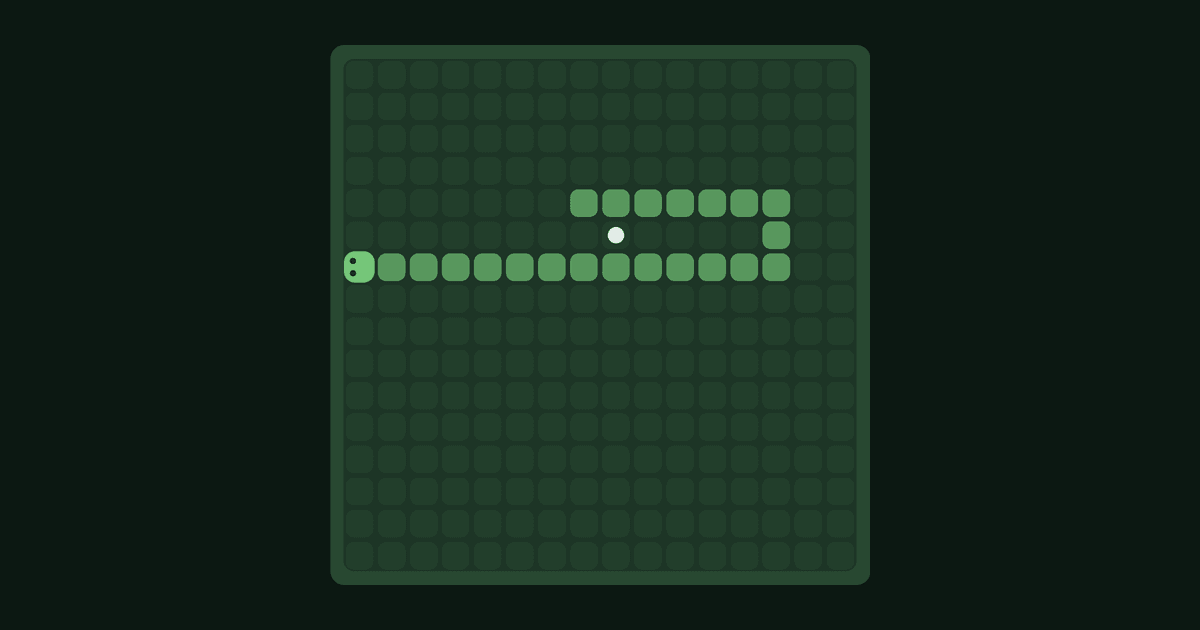
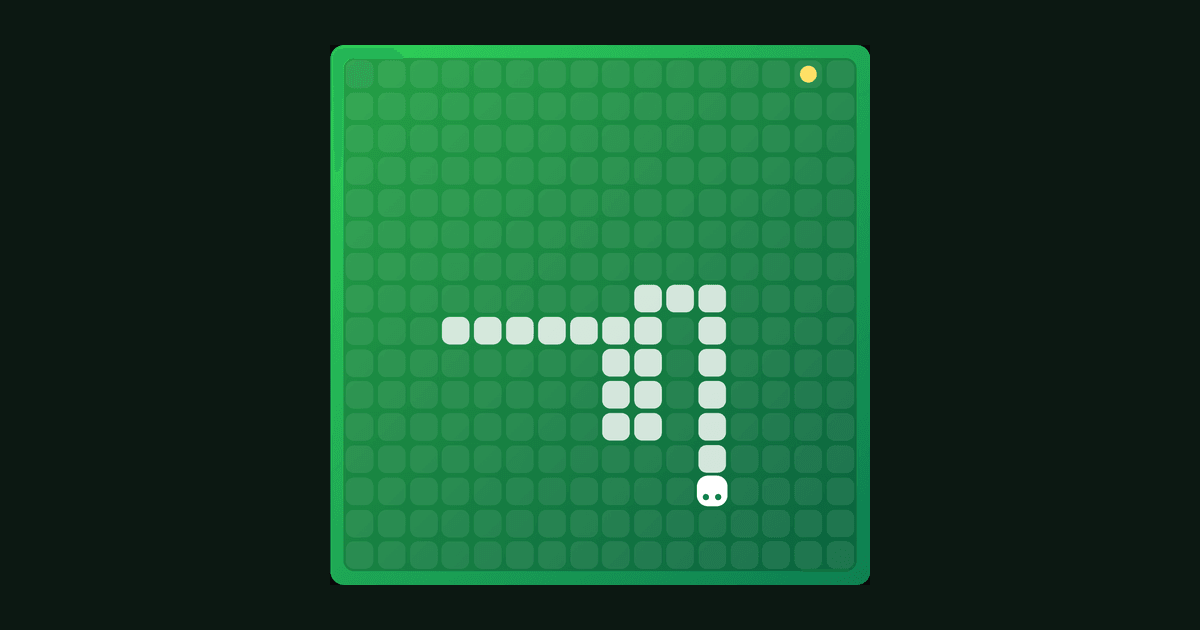
Lab - mini games in new colours, with a switch back to the old green

diff --git a/src/games/2048/2048.css b/src/games/2048/2048.css
@@ -1,4 +1,5 @@
-/* 2048 on the "Jack's 2048" post (game.js). Tiles are shades of the Games topic colour, from faint to full.
+/* 2048 on the "Jack's 2048" post (game.js). The board is a violet card with see-through white and soft tiles; the
+   switch on the page's top card can bring back the old look, tiles in shades of the Games green (the end of this file).
    Every rule starts with .g2048, so the post text's own styles (.prose p and so on) can't win over these. */
 
 /* The game on the left and its leaderboard on the right, out to the page's edge like the top card above; on
@@ -18,7 +19,7 @@
 .g2048 .g2048-score strong { font-size: var(--text-md); font-weight: 800; font-variant-numeric: tabular-nums; }
 /* Wide enough for the running time, so the boxes beside it never shift as its digits change. */
 .g2048 .g2048-time { min-width: 7.25rem; }
-.g2048 .g2048-gain { position: absolute; right: 0; bottom: 50%; left: 0; color: var(--lane-games); font-size: var(--text-sm); font-weight: 800; pointer-events: none; animation: g2048-gain 700ms ease-out forwards; }
+.g2048 .g2048-gain { position: absolute; right: 0; bottom: 50%; left: 0; color: var(--game-accent); font-size: var(--text-sm); font-weight: 800; pointer-events: none; animation: g2048-gain 700ms ease-out forwards; }
 .g2048 .g2048-buttons { display: flex; gap: var(--space-2); }
 .g2048 .button { color: var(--ink); cursor: pointer; -webkit-tap-highlight-color: transparent; }
 /* Undo with no move to take back. */
@@ -44,15 +45,19 @@
   .g2048 .g2048-label-text { position: absolute; width: 1px; height: 1px; overflow: hidden; clip: rect(0 0 0 0); white-space: nowrap; }
 }
 
-.g2048 .g2048-board { position: relative; padding: var(--gap); border-radius: var(--radius-lg); background: color-mix(in srgb, var(--lane-games) 20%, var(--surface)); touch-action: none; }
+/* The game's colours. The accent is for what sits on the page (the score's rise, the leaderboard's latest row). */
+.g2048 { --board: linear-gradient(135deg, var(--now-from), var(--now-to)); --empty: color-mix(in srgb, var(--on-colour) 12%, transparent); --game-accent: var(--now-to); }
+:root[data-theme='dark'] .g2048 { --game-accent: var(--accent-about); }
+
+.g2048 .g2048-board { position: relative; padding: var(--gap); border-radius: var(--radius-lg); background: var(--board); touch-action: none; }
 .g2048 .g2048-board:focus-visible { outline: 2px solid var(--focus); outline-offset: 3px; }
 .g2048 .g2048-cells { display: grid; grid-template-columns: repeat(4, minmax(0, 1fr)); gap: var(--gap); }
-.g2048 .g2048-cells > div { aspect-ratio: 1; border-radius: var(--radius-md); background: color-mix(in srgb, var(--lane-games) 9%, var(--surface)); }
+.g2048 .g2048-cells > div { aspect-ratio: 1; border-radius: var(--radius-md); background: var(--empty); }
 .g2048 .g2048-tiles { position: absolute; inset: var(--gap); }
 
 /* A tile is placed by --x and --y; changing them slides it (transform only, so it stays on the GPU). */
-.g2048 .g2048-tile { --fg: var(--ink); position: absolute; top: 0; left: 0; width: calc((100% - 3 * var(--gap)) / 4); aspect-ratio: 1; transform: translate(calc(var(--x) * (100% + var(--gap))), calc(var(--y) * (100% + var(--gap)))); transition: transform var(--slide) ease-in-out; will-change: transform; }
-.g2048 .g2048-tile span { display: grid; place-items: center; width: 100%; height: 100%; border-radius: var(--radius-md); background: color-mix(in srgb, var(--lane-games) var(--p), var(--surface)); color: var(--fg); font-size: 10.5cqw; font-weight: 800; letter-spacing: -0.03em; line-height: 1; }
+.g2048 .g2048-tile { --fg: var(--game-words); position: absolute; top: 0; left: 0; width: calc((100% - 3 * var(--gap)) / 4); aspect-ratio: 1; transform: translate(calc(var(--x) * (100% + var(--gap))), calc(var(--y) * (100% + var(--gap)))); transition: transform var(--slide) ease-in-out; will-change: transform; }
+.g2048 .g2048-tile span { display: grid; place-items: center; width: 100%; height: 100%; border-radius: var(--radius-md); background: var(--bg); color: var(--fg); font-size: 10.5cqw; font-weight: 800; letter-spacing: -0.03em; line-height: 1; }
 .g2048 .d3 span { font-size: 8.5cqw; }
 .g2048 .d4 span { font-size: 6.8cqw; }
 .g2048 .d5 span { font-size: 5.4cqw; }
@@ -61,6 +66,26 @@
 .g2048 .is-new span { animation: g2048-appear 180ms ease-out both; }
 .g2048 .is-merged span { animation: g2048-pop 180ms ease-out both; }
 
+/* Each value's tile: see-through white for 2 and 4, then soft colours warming up to pink at 2048, and deep violet
+   beyond. White numbers on the see-through, the pink and the deep violet, deep violet ones on the rest. Measured:
+   every number at least 3.2:1, all of them large text. */
+.g2048 .v2 { --bg: color-mix(in srgb, var(--on-colour) 14%, transparent); --fg: var(--on-colour); }
+.g2048 .v4 { --bg: color-mix(in srgb, var(--on-colour) 24%, transparent); --fg: var(--on-colour); }
+.g2048 .v8 { --bg: var(--now-soft); }
+.g2048 .v16 { --bg: var(--on-colour); }
+.g2048 .v32 { --bg: var(--now-third); }
+.g2048 .v64 { --bg: var(--game-mint); }
+.g2048 .v128 { --bg: var(--now-first); }
+.g2048 .v256 { --bg: var(--game-amber); }
+.g2048 .v512 { --bg: var(--accent-collection); }
+.g2048 .v1024 { --bg: var(--game-coral); }
+.g2048 .v2048 { --bg: var(--accent-writing); --fg: var(--on-colour); }
+.g2048 .vbig { --bg: var(--game-words); --fg: var(--on-colour); }
+
+/* The old look, which the switch on the page's top card brings back (data-game-look on the page): the board and the
+   tiles in shades of the Games green, from faint to full. */
+:root[data-game-look='old'] .g2048 { --board: color-mix(in srgb, var(--lane-games) 20%, var(--surface)); --empty: color-mix(in srgb, var(--lane-games) 9%, var(--surface)); --game-accent: var(--lane-games); }
+:root[data-game-look='old'] .g2048 .g2048-tile { --bg: color-mix(in srgb, var(--lane-games) var(--p), var(--surface)); --fg: var(--ink); }
 .g2048 .v2 { --p: 14%; }
 .g2048 .v4 { --p: 24%; }
 .g2048 .v8 { --p: 36%; }
@@ -72,11 +97,11 @@
 .g2048 .v512 { --p: 88%; }
 .g2048 .v1024 { --p: 94%; }
 .g2048 .v2048 { --p: 100%; }
-.g2048 .vbig span { background: var(--ink); color: var(--surface); }
+:root[data-game-look='old'] .g2048 .vbig { --bg: var(--ink); --fg: var(--surface); }
 /* Numbers switch to the page colour once the green behind them is strong: from 512 in the light theme,
    and from 64 in the dark theme, whose green is light. Measured: every value is at least 3.9:1 in both themes. */
-.g2048 :is(.v512, .v1024, .v2048) { --fg: var(--surface); }
-:root[data-theme='dark'] .g2048 :is(.v64, .v128, .v256) { --fg: var(--surface); }
+:root[data-game-look='old'] .g2048 :is(.v512, .v1024, .v2048) { --fg: var(--surface); }
+:root[data-game-look='old'][data-theme='dark'] .g2048 :is(.v64, .v128, .v256) { --fg: var(--surface); }
 
 .g2048 .g2048-message { position: absolute; inset: 0; z-index: 3; display: grid; place-content: center; justify-items: center; gap: var(--space-3); border-radius: var(--radius-lg); background: color-mix(in srgb, var(--surface) 84%, transparent); text-align: center; animation: g2048-fade 300ms ease both; }
 .g2048 .g2048-message[hidden] { display: none; }

diff --git a/src/games/snake/snake.css b/src/games/snake/snake.css
@@ -1,5 +1,7 @@
-/* Snake on the "Jack's Snake" post (game.js): the snake in the Games topic colour, the food in the page's ink.
-   Every rule starts with .snk, so the post text's own styles (.prose p and so on) can't win over these. */
+/* Snake on the "Jack's Snake" post (game.js). The board is a green card with a white snake and yellow food; the
+   switch on the page's top card can bring back the old look, the snake in the Games green and the food in the page's
+   ink (the end of this file). Every rule starts with .snk, so the post text's own styles (.prose p and so on) can't
+   win over these. */
 
 /* The game on the left and its leaderboard on the right, out to the page's edge like the top card above; on
    narrower screens, the leaderboard goes under it. */
@@ -18,35 +20,39 @@
 .snk .snk-score strong { font-size: var(--text-md); font-weight: 800; font-variant-numeric: tabular-nums; }
 .snk .button { color: var(--ink); cursor: pointer; }
 
-.snk .snk-board { position: relative; padding: 2.5%; border-radius: var(--radius-lg); background: color-mix(in srgb, var(--lane-games) 20%, var(--surface)); touch-action: none; }
+/* The game's colours: the board, the field inside it and its faint cells, the snake's body, head and eyes, the food,
+   and the words before play starts. */
+.snk { --board: linear-gradient(135deg, var(--kind-game-from), var(--kind-game-to)); --field: var(--on-colour-chip); --grid: color-mix(in srgb, var(--on-colour) 8%, transparent); --body: color-mix(in srgb, var(--on-colour) 80%, transparent); --head: var(--on-colour); --eye: var(--kind-game-to); --food: var(--now-first); --hint: var(--on-colour); }
+
+.snk .snk-board { position: relative; padding: 2.5%; border-radius: var(--radius-lg); background: var(--board); touch-action: none; }
 .snk .snk-board:focus-visible { outline: 2px solid var(--focus); outline-offset: 3px; }
-.snk .snk-field { position: relative; aspect-ratio: 1; overflow: hidden; border-radius: var(--radius-md); background: color-mix(in srgb, var(--lane-games) 8%, var(--surface)); }
+.snk .snk-field { position: relative; aspect-ratio: 1; overflow: hidden; border-radius: var(--radius-md); background: var(--field); }
 
 /* The grid the snake moves on: faint cells the size and shape of its parts. */
 .snk .snk-grid { position: absolute; inset: 0; display: grid; grid-template-columns: repeat(var(--size), 1fr); grid-template-rows: repeat(var(--size), 1fr); }
-.snk .snk-grid i { margin: 7%; border-radius: 30%; background: color-mix(in srgb, var(--lane-games) 14%, var(--surface)); }
+.snk .snk-grid i { margin: 7%; border-radius: 30%; background: var(--grid); }
 
 /* A part of the snake (or the food) is placed by --x and --y, in cells. No transition: it jumps there, old-school. */
 .snk .snk-part, .snk .snk-food { position: absolute; top: 0; left: 0; width: calc(100% / var(--size)); aspect-ratio: 1; transform: translate(calc(var(--x) * 100%), calc(var(--y) * 100%)); }
-.snk .snk-part::before { content: ''; position: absolute; inset: 7%; border-radius: 30%; background: color-mix(in srgb, var(--lane-games) 70%, var(--surface)); }
+.snk .snk-part::before { content: ''; position: absolute; inset: 7%; border-radius: 30%; background: var(--body); }
 .snk .snk-part.is-head { z-index: 1; }
-.snk .snk-part.is-head::before { inset: 2%; border-radius: 36%; background: var(--lane-games); }
+.snk .snk-part.is-head::before { inset: 2%; border-radius: 36%; background: var(--head); }
 /* Eyes on the side the head is facing (drawn facing right, then turned). */
 .snk .snk-eyes { position: absolute; inset: 0; }
 .snk [data-dir='down'] .snk-eyes { transform: rotate(90deg); }
 .snk [data-dir='left'] .snk-eyes { transform: rotate(180deg); }
 .snk [data-dir='up'] .snk-eyes { transform: rotate(-90deg); }
-.snk .snk-eyes i { position: absolute; right: 22%; width: 18%; aspect-ratio: 1; border-radius: 50%; background: var(--surface); }
+.snk .snk-eyes i { position: absolute; right: 22%; width: 18%; aspect-ratio: 1; border-radius: 50%; background: var(--eye); }
 .snk .snk-eyes i:first-child { top: 22%; }
 .snk .snk-eyes i:last-child { bottom: 22%; }
 
-.snk .snk-food::before { content: ''; position: absolute; inset: 24%; border-radius: 50%; background: var(--ink); animation: snk-pulse 900ms ease-in-out infinite alternate; }
+.snk .snk-food::before { content: ''; position: absolute; inset: 24%; border-radius: 50%; background: var(--food); animation: snk-pulse 900ms ease-in-out infinite alternate; }
 .snk .snk-food.is-new::before { animation: snk-appear 220ms ease-out, snk-pulse 900ms ease-in-out 220ms infinite alternate; }
 .snk .snk-food[hidden] { display: none; }
 .snk .is-crashed .is-head { animation: snk-shake 380ms ease-in-out; }
 
 /* Near the top of the board, as a big board's lower part can start below the screen's edge until play begins. */
-.snk .snk-hint { position: absolute; top: 22%; right: 0; left: 0; margin: 0; color: var(--ink); font-weight: 700; text-align: center; pointer-events: none; }
+.snk .snk-hint { position: absolute; top: 22%; right: 0; left: 0; margin: 0; color: var(--hint); font-weight: 700; text-align: center; pointer-events: none; }
 .snk .snk-hint[hidden] { display: none; }
 .snk .snk-message { position: absolute; inset: 0; z-index: 3; display: grid; place-content: center; justify-items: center; gap: var(--space-3); padding: var(--space-4); border-radius: var(--radius-lg); background: color-mix(in srgb, var(--surface) 84%, transparent); text-align: center; animation: snk-fade 300ms ease both; }
 .snk .snk-message[hidden] { display: none; }
@@ -59,6 +65,10 @@
 .snk .snk-mode input { width: 1.125rem; height: 1.125rem; margin: 0; accent-color: var(--lane-games); cursor: inherit; }
 .snk .snk-mode:has(input:disabled) { color: var(--muted); cursor: not-allowed; }
 .snk .snk-help { margin: var(--space-3) 0 0; color: var(--muted); font-size: var(--text-sm); text-align: center; }
+
+/* The old look, which the switch on the page's top card brings back (data-game-look on the page): the board in a
+   faint Games green, the snake in the full green, the food in the page's ink. */
+:root[data-game-look='old'] .snk { --board: color-mix(in srgb, var(--lane-games) 20%, var(--surface)); --field: color-mix(in srgb, var(--lane-games) 8%, var(--surface)); --grid: color-mix(in srgb, var(--lane-games) 14%, var(--surface)); --body: color-mix(in srgb, var(--lane-games) 70%, var(--surface)); --head: var(--lane-games); --eye: var(--surface); --food: var(--ink); --hint: var(--ink); }
 
 @keyframes snk-pulse { from { transform: scale(0.86); } to { transform: scale(1.04); } }
 @keyframes snk-appear { from { transform: scale(0); } }

diff --git a/src/games/catch-the-cat/catch-the-cat.css b/src/games/catch-the-cat/catch-the-cat.css
@@ -1,5 +1,7 @@
-/* Catch the Cat on its post (game.js): dots in shades of the Games topic colour, like 2048.
-   Every rule starts with .ctc, so the post text's own styles (.prose p and so on) can't win over these. */
+/* Catch the Cat on its post (game.js). The board is an orange card with see-through white dots, blocked ones deep
+   orange, and a dark cat; the switch on the page's top card can bring back the old look, dots in shades of the Games
+   green (the end of this file). Every rule starts with .ctc, so the post text's own styles (.prose p and so on) can't
+   win over these. */
 
 /* As big as the other games (--game-width), and never taller than the screen with its buttons: the board is about
    0.85 times as tall as it is wide. */
@@ -11,30 +13,33 @@
 .ctc .ctc-score strong { font-size: var(--text-md); font-weight: 800; font-variant-numeric: tabular-nums; }
 .ctc .button { color: var(--ink); cursor: pointer; }
 
-.ctc .ctc-board { position: relative; padding: 3%; border-radius: var(--radius-lg); background: color-mix(in srgb, var(--lane-games) 16%, var(--surface)); }
+/* The game's colours: the board, a free dot (and under the mouse), a blocked one, the cat and its eyes, and the
+   keyboard's ring, dark like the cat as the page's blue would vanish on the orange. Free and blocked dots are at
+   least 3:1 apart. */
+.ctc { --board: linear-gradient(135deg, var(--collection-from), var(--collection-to)); --dot: color-mix(in srgb, var(--on-colour) 26%, transparent); --dot-hover: color-mix(in srgb, var(--on-colour) 50%, transparent); --blocked: var(--collection-top-to); --cat: var(--game-cat); --cat-eye: var(--on-colour); --ring: var(--game-cat); }
+
+.ctc .ctc-board { position: relative; padding: 3%; border-radius: var(--radius-lg); background: var(--board); }
 /* No outline on a click: the browser's own style for SVG draws a thick ring on any focus, mouse included. */
 /* No tap highlight: phones would flash a blue patch over each dot tapped, and the dot turning dark already shows it. */
 .ctc svg { display: block; width: 100%; height: auto; overflow: visible; touch-action: manipulation; outline: none; -webkit-tap-highlight-color: transparent; }
-.ctc svg:focus-visible { outline: 2px solid var(--focus); outline-offset: 8px; border-radius: var(--radius-xs); }
-/* Free dots are pale, blocked ones take the full Games colour (at least 3:1 apart in both themes). */
-.ctc .ctc-dot { fill: color-mix(in srgb, var(--lane-games) 36%, var(--surface)); cursor: pointer; transform-box: fill-box; transform-origin: center; transition: fill 150ms ease; }
-.ctc .ctc-dot.is-blocked { fill: var(--lane-games); cursor: default; }
+.ctc svg:focus-visible { outline: 2px solid var(--ring); outline-offset: 8px; border-radius: var(--radius-xs); }
+.ctc .ctc-dot { fill: var(--dot); cursor: pointer; transform-box: fill-box; transform-origin: center; transition: fill 150ms ease; }
+.ctc .ctc-dot.is-blocked { fill: var(--blocked); cursor: default; }
 .ctc .ctc-dot.is-new { animation: ctc-pop 220ms ease-out; }
 /* Mouse only: a tapped dot on a touch screen would otherwise stay highlighted. */
 @media (hover: hover) {
-  .ctc .ctc-dot:not(.is-blocked):hover { fill: color-mix(in srgb, var(--lane-games) 62%, var(--surface)); }
+  .ctc .ctc-dot:not(.is-blocked):hover { fill: var(--dot-hover); }
 }
-.ctc .ctc-cursor { fill: none; stroke: var(--focus); stroke-width: 0.07; opacity: 0; pointer-events: none; }
+.ctc .ctc-cursor { fill: none; stroke: var(--ring); stroke-width: 0.07; opacity: 0; pointer-events: none; }
 .ctc svg:focus-visible .ctc-cursor { opacity: 1; }
 
 /* The cat: one pose shows at a time, sitting unless an animation below swaps it (every 70ms in a stride).
    steps(1, end) holds each keyframe until the next, so the poses swap like sprite frames. */
 .ctc .ctc-cat { pointer-events: none; transition: transform var(--move) ease-in-out, opacity var(--move) ease; }
 .ctc .ctc-cat.is-gone { opacity: 0; }
-.ctc .ctc-ink { fill: var(--ink); }
-.ctc .ctc-line { fill: none; stroke: var(--ink); stroke-width: 0.075; stroke-linecap: round; }
-/* The page colour: the opposite of the cat's in both themes, so the eyes always show. */
-.ctc .ctc-eye { fill: var(--paper); }
+.ctc .ctc-ink { fill: var(--cat); }
+.ctc .ctc-line { fill: none; stroke: var(--cat); stroke-width: 0.075; stroke-linecap: round; }
+.ctc .ctc-eye { fill: var(--cat-eye); }
 .ctc .ctc-pose { visibility: hidden; }
 .ctc .ctc-sit { visibility: visible; }
 /* Sitting still, the tail sways and the cat blinks now and then. */
@@ -67,6 +72,11 @@
 .ctc .ctc-message p { margin: 0; font-size: var(--text-xl); font-weight: 800; letter-spacing: -0.02em; }
 .ctc .ctc-actions { display: flex; flex-wrap: wrap; justify-content: center; gap: var(--space-2); }
 .ctc .ctc-help { margin: var(--space-3) 0 0; color: var(--muted); font-size: var(--text-sm); text-align: center; }
+
+/* The old look, which the switch on the page's top card brings back (data-game-look on the page): the board in a
+   faint Games green, free dots pale and blocked ones in the full green (at least 3:1 apart in both themes), the cat in
+   the page's ink with eyes in the page colour, the opposite of the cat's, so they always show. */
+:root[data-game-look='old'] .ctc { --board: color-mix(in srgb, var(--lane-games) 16%, var(--surface)); --dot: color-mix(in srgb, var(--lane-games) 36%, var(--surface)); --dot-hover: color-mix(in srgb, var(--lane-games) 62%, var(--surface)); --blocked: var(--lane-games); --cat: var(--ink); --cat-eye: var(--paper); --ring: var(--focus); }
 
 @keyframes ctc-pop { 0% { transform: scale(0.6); } 60% { transform: scale(1.12); } 100% { transform: scale(1); } }
 @keyframes ctc-fade { from { opacity: 0; } }

diff --git a/src/games/blocks/blocks.css b/src/games/blocks/blocks.css
@@ -1,5 +1,6 @@
-/* Blocks on the "Jack's Blocks" post (game.js): the pieces in shades of the Games topic colour, one shade each.
-   Every rule starts with .blk, so the post text's own styles (.prose p and so on) can't win over these. */
+/* Blocks on the "Jack's Blocks" post (game.js). The well is a blue card with each piece in a soft colour of its own;
+   the switch on the page's top card can bring back the old look, the pieces in shades of the Games green (the end of
+   this file). Every rule starts with .blk, so the post text's own styles (.prose p and so on) can't win over these. */
 
 /* A cell's size: as big as fits the screen, in height (the whole well of 20 rows, once the page glides to it at the
    start) and in width (10 columns, with the scores beside them), between a small and a comfortable size. The columns
@@ -13,21 +14,25 @@
 .blk .blk-main { display: flex; align-items: flex-start; gap: var(--space-3); }
 .blk .button { color: var(--ink); cursor: pointer; }
 
-.blk .blk-board { position: relative; flex: none; padding: 6px; border-radius: var(--radius-lg); background: color-mix(in srgb, var(--lane-games) 20%, var(--surface)); touch-action: none; }
+/* The game's colours: the well, an empty cell, the flash of a cleared row, and the accent for what sits on the page
+   (the leaderboard's latest row). */
+.blk { --board: linear-gradient(160deg, var(--travel-from), var(--travel-to)); --empty: color-mix(in srgb, var(--on-colour) 10%, transparent); --flash: var(--on-colour); --game-accent: var(--accent-travel); }
+
+.blk .blk-board { position: relative; flex: none; padding: 6px; border-radius: var(--radius-lg); background: var(--board); touch-action: none; }
 .blk .blk-board:focus-visible { outline: 2px solid var(--focus); outline-offset: 3px; }
 .blk .blk-grid { display: grid; grid-template-columns: repeat(10, var(--cell)); grid-auto-rows: var(--cell); gap: 2px; }
-.blk .blk-cell { border-radius: var(--radius-xs); background: color-mix(in srgb, var(--lane-games) 7%, var(--surface)); }
-/* One shade of the Games colour for each piece, from full to light. */
-.blk .p-I { --p: 100%; }
-.blk .p-O { --p: 86%; }
-.blk .p-T { --p: 72%; }
-.blk .p-S { --p: 60%; }
-.blk .p-Z { --p: 50%; }
-.blk .p-J { --p: 40%; }
-.blk .p-L { --p: 32%; }
-.blk .blk-cell:is(.p-I, .p-O, .p-T, .p-S, .p-Z, .p-J, .p-L) { background: color-mix(in srgb, var(--lane-games) var(--p), var(--surface)); }
-/* Where the piece will land: an outline in its shade. */
-.blk .blk-cell.blk-cell.is-ghost { background: transparent; box-shadow: inset 0 0 0 2px color-mix(in srgb, var(--lane-games) var(--p), var(--surface)); opacity: 0.7; }
+.blk .blk-cell { border-radius: var(--radius-xs); background: var(--empty); }
+/* A soft colour of its own for each piece. */
+.blk .p-I { --piece: var(--on-colour); }
+.blk .p-O { --piece: var(--now-first); }
+.blk .p-T { --piece: var(--now-soft); }
+.blk .p-S { --piece: var(--now-third); }
+.blk .p-Z { --piece: var(--game-pink); }
+.blk .p-J { --piece: var(--game-sky); }
+.blk .p-L { --piece: var(--game-peach); }
+.blk .blk-cell:is(.p-I, .p-O, .p-T, .p-S, .p-Z, .p-J, .p-L) { background: var(--piece); }
+/* Where the piece will land: an outline in its colour. */
+.blk .blk-cell.blk-cell.is-ghost { background: transparent; box-shadow: inset 0 0 0 2px var(--piece); opacity: 0.7; }
 .blk .is-clearing { animation: blk-clear 180ms ease-out forwards; }
 
 .blk .blk-side { display: grid; gap: var(--space-2); width: 6.5rem; }
@@ -43,6 +48,9 @@
 /* An empty Hold box keeps the height of a piece; once used, it fades until the piece sets. */
 .blk .blk-mini:empty { height: calc(2 * var(--mini) + 2px); }
 .blk .blk-next.is-used .blk-mini { opacity: 0.35; }
+/* The next and held pieces sit in a small tray of the well's blue, as their soft colours would fade on the page, each
+   in the middle of a tray the size of the longest piece, so the box never changes size. */
+:root:not([data-game-look='old']) .blk .blk-mini { width: calc(4 * var(--mini) + 6px + 8px); height: calc(2 * var(--mini) + 2px + 8px); padding: 4px; justify-content: center; align-content: center; border-radius: var(--radius-xs); background: var(--board); }
 .blk .blk-side .button { justify-content: center; margin-top: var(--space-1); padding-inline: var(--space-2); }
 
 /* The buttons under the well, only where there's a touch screen and no mouse. */
@@ -60,5 +68,17 @@
 .blk .blk-actions { display: flex; flex-wrap: wrap; justify-content: center; gap: var(--space-2); }
 .blk .blk-help { max-width: 30rem; margin: var(--space-3) 0 0; color: var(--muted); font-size: var(--text-sm); }
 
-@keyframes blk-clear { 40% { background: var(--ink); } to { background: var(--ink); opacity: 0; transform: scaleY(0.2); } }
+/* The old look, which the switch on the page's top card brings back (data-game-look on the page): the well and the
+   pieces in shades of the Games green, one shade each, from full to light. */
+:root[data-game-look='old'] .blk { --board: color-mix(in srgb, var(--lane-games) 20%, var(--surface)); --empty: color-mix(in srgb, var(--lane-games) 7%, var(--surface)); --flash: var(--ink); --game-accent: var(--lane-games); }
+:root[data-game-look='old'] .blk :is(.p-I, .p-O, .p-T, .p-S, .p-Z, .p-J, .p-L) { --piece: color-mix(in srgb, var(--lane-games) var(--p), var(--surface)); }
+.blk .p-I { --p: 100%; }
+.blk .p-O { --p: 86%; }
+.blk .p-T { --p: 72%; }
+.blk .p-S { --p: 60%; }
+.blk .p-Z { --p: 50%; }
+.blk .p-J { --p: 40%; }
+.blk .p-L { --p: 32%; }
+
+@keyframes blk-clear { 40% { background: var(--flash); } to { background: var(--flash); opacity: 0; transform: scaleY(0.2); } }
 @keyframes blk-fade { from { opacity: 0; } }

diff --git a/src/games/leaderboard.css b/src/games/leaderboard.css
@@ -9,7 +9,7 @@
 .lb .lb-head { display: flex; flex-wrap: wrap; align-items: baseline; justify-content: space-between; gap: var(--space-1) var(--space-3); margin-bottom: var(--space-3); }
 .lb .lb-title { margin: 0; font-size: var(--text-lg); font-weight: 800; letter-spacing: -0.01em; }
 /* Which of a game's boards this is, as a tag under the title row, so that row looks the same on every game. */
-.lb .lb-label { display: inline-block; margin: 0 0 var(--space-2); padding: 0.125rem 0.625rem; border-radius: var(--radius-pill); background: color-mix(in srgb, var(--lane-games) 14%, transparent); font-size: var(--text-xs); font-weight: 700; }
+.lb .lb-label { display: inline-block; margin: 0 0 var(--space-2); padding: 0.125rem 0.625rem; border-radius: var(--radius-pill); background: color-mix(in srgb, var(--game-accent, var(--lane-games)) 14%, transparent); font-size: var(--text-xs); font-weight: 700; }
 .lb .lb-where { margin: 0; color: var(--muted); font-size: var(--text-sm); }
 .lb .lb-empty { margin: 0; padding: var(--space-3) 0 var(--space-1); color: var(--muted); }
 
@@ -20,8 +20,8 @@
 .lb .lb-table :is(th, td):first-child { width: 2.25rem; color: var(--muted); }
 .lb .lb-table :is(th, td):nth-child(n + 3) { text-align: right; font-variant-numeric: tabular-nums; white-space: nowrap; }
 .lb .lb-table td:nth-child(2) { font-weight: 650; overflow-wrap: anywhere; }
-/* The row of whoever saved last, in the Games colour, with rounded ends. */
-.lb .lb-table .is-latest td { background: color-mix(in srgb, var(--lane-games) 14%, transparent); }
+/* The row of whoever saved last, in the game's accent (the Games green unless the game sets one), with rounded ends. */
+.lb .lb-table .is-latest td { background: color-mix(in srgb, var(--game-accent, var(--lane-games)) 14%, transparent); }
 .lb .lb-table .is-latest td:first-child { border-radius: var(--radius-sm) 0 0 var(--radius-sm); }
 .lb .lb-table .is-latest td:last-child { border-radius: 0 var(--radius-sm) var(--radius-sm) 0; }
 

diff --git a/src/styles/tokens.css b/src/styles/tokens.css
@@ -105,6 +105,18 @@
   --kind-world-from: #40C8E0;
   --kind-world-to: #0A84FF;
   --kind-world-base: #164E63;
+  /* The Lab's games, each on a colour card of its own like the home page's, the same in both themes: 2048 on Now's
+     violet, Snake on the Lab's green, Blocks on Travel's blue, Catch the Cat on the Collection's orange. On them sit
+     white, see-through white and these soft colours (with Now's), 2048's numbers in a deep violet, and the cat, dark
+     on its orange in both themes. The switch on a game's top card brings back the old Games green instead. */
+  --game-words: #2E1A87;
+  --game-mint: #6EE7B7;
+  --game-amber: #FFC53D;
+  --game-coral: #FF7A59;
+  --game-pink: #FFB3C7;
+  --game-sky: #BDE3FF;
+  --game-peach: #FFC98B;
+  --game-cat: #172030;
   /* About's cards, each in the colour of what it's about, deep enough for white text: work in LinkedIn's blue, the
      things Jack likes in the Collection's orange, his links on graphite so their own colours stand out, the month's
      changes in the Changelog's teal, the site in the Lab's green. */

diff --git a/CLAUDE.md b/CLAUDE.md
@@ -53,6 +53,7 @@ Read the code for how a part works; this says where to start.
 - Every game is as big as the window's height allows (`--game-width` in `tokens.css`), and the page glides to show the whole game when play starts (`bringIntoView` in `src/games/controls.js`). It fits the window while playing at every size under UI checks.
 - Keys act whenever the game is on screen, whatever has focus, but never while typing in a field or with a dialog open; off screen, the arrows scroll the page. A mouse click must not take the keys (prevent default on mousedown); keyboard play starts after Tab. Accept the keys people naturally try (R to hold a piece).
 - Simple and old-school over fancy (cell jumps, a faint grid), gentle difficulty, and ask before picking an animation style. Tap targets get `-webkit-tap-highlight-color: transparent`.
+- Every game has two looks: its own colour card (the default) and the old Games green, which the New colours | Old green switch on its top card brings back for all of them (`data-game-look="old"` on the page, kept in this browser; `src/components/games/GameLook.astro`). A new game needs both. Its picture on the Lab's card is a photo of its board in the new look.
 
 ## UI checks
 

diff --git a/src/content/changelog.md b/src/content/changelog.md
@@ -69,3 +69,4 @@
 - 2026-10-07 fix: Long lines of code now wrap on phones
 - 2026-10-07 design: Put every Lab effect on a card
 - 2026-10-07 new: Added a calendar of this month's changes to [About](/about/)
+- 2026-10-07 design: Gave the mini games new colours, with a switch back to the old green
